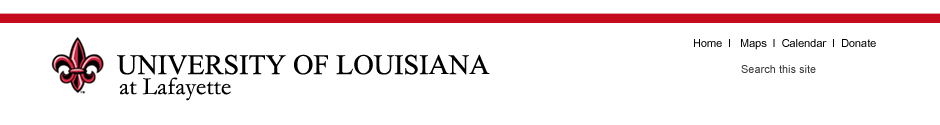
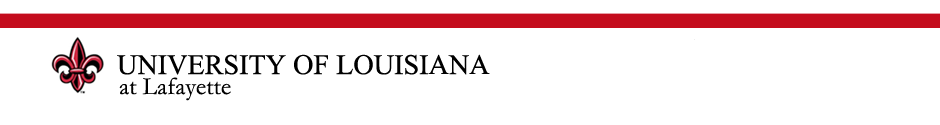
added the sub pages, so that is ready for wireframes to be added

Changed region(s): [[0.0, 0.168, 1.0, 0.24], [0.7404, 0.312, 0.9564, 0.384], [0.7713, 0.528, 0.8947, 0.6]]

diff --git a/about.html b/about.html
@@ -22,6 +22,18 @@
 
     <!--  jQuery http://jquery.com/ -->
     <script src="javascripts/lib/jquery-1.7.1.min.js"></script>
+	
+	
+	
+	
+<link rel="stylesheet" href="nivo-slider.css" type="text/css" media="screen" />
+<script src="http://ajax.googleapis.com/ajax/libs/jquery/1.4.2/jquery.min.js" type="text/javascript"></script>
+<script src="jquery.nivo.slider.pack.js" type="text/javascript"></script>
+
+	
+	
+	
+	
 
     <!-- Bootstrap Javascripts http://twitter.github.com/bootstrap/javascript.html -->
     <script src="javascripts/lib/bootstrap.js"></script>
@@ -37,11 +49,28 @@
 
   <body>
   
+  
+  
   <section id="everything">
    <div class="container">
    <div id="banner">
    <div class="row">
 			<div class="span12">
+			<ul>
+			
+			<li><a href="index.html">Home </a></li>
+			<li><a href="index.html">Maps <a></li>
+			<li><a href="index.html">Calendar </a></li>
+			<li><a href="index.html">Donate </a></li>
+			<li><form id="searchbar" class="navbar-search pull-left">
+				<input type="text" class="search-query" placeholder="Search">
+			</form></li>
+			
+			</ul>
+			
+			
+			
+			
 			
 			</div>
     </div>
@@ -84,13 +113,13 @@
 		
 		
 		<ul>
-			<li><a href="index.html">sub nav</a></li>
-			<li><a href="#">sub nav</a></li>
-			<li><a href="#">sub nav</a></li>
-			<li><a href="#">sub nav</a></li>
-			<li><a href="#">sub nav</a></li>
-			<li><a href="#">sub nav</a></li>
-			<li><a href="#">sub nav</a></li>
+			
+			<li><a href="http://louisiana.edu/AboutUs/Mission.shtml">Mission Statement</a></li>
+			<li><a href="http://www.ull.edu/Advancement/PRNS/media/fastfacts.shtml">Quick Facts</a></li>
+			<li><a href="http://www.louisiana.edu/AboutUs/History/">History</a></li>
+			<li><a href="#">Offices and Administrations</a></li>
+			<li><a href="#">Campus Services</a></li>
+			<li><a href="#">Media</a></li>
 			
 		</ul>
 		
@@ -107,9 +136,19 @@
 				<div id="topper">
 					<div class="row">
 						<div class="span9">
-							Image slider goes here
-							<img width="1000" height="550" src="images/ULL_homepage.jpg" alt="images/ULL_homepage.jpg">
 							
+	
+			<div id="slider" class="nivoSlider">
+					<img src="images/football.jpg" alt="" />
+						
+					<img src="images/ULL_homepage.jpg" alt="" title="This is an example of a caption" />
+					<img src="images/map.jpg" alt="" />
+			</div>
+
+
+
+
+						
 						</div>
 					</div>
 				</div>
@@ -144,18 +183,35 @@
 		</div>
 		
 			
-			<div class="row">
-			<div class="span9">
-			<div id="footer">
-			footer crud
+			
+			
+		</div><!-- end of body content -->
+		<div id="footer">
+		<div class="row">
+			<div class="span10">
+			
+			
+			<ul>
+			
+			<li><a href="index.html">Home</a></li>
+			<li><a href="index.html">Contact Us</a></li>
+			<li>1234 blah blah st.<br />
+			    Lafayette, LA nnnnn</li>
+			<li>Phone: (nnn)nnn-nnnn </li>
+			<li><a href="index.html">Emergency Info</a></li>
+			
+			
+			</ul>
+			</div>
+			<div class="span2">
+			<img src="images/fb.png">
+			<img src="images/twitter.png">
+			</div>
 			 
 			
 		</div>
 			</div>
 			</div>
-			
-		</div><!-- end of body content -->
-		
 	
 		
 		</div>

diff --git a/stylesheets/main.css b/stylesheets/main.css
@@ -12,6 +12,13 @@ padding-right:7px;
 background:#c40c1d;
 }
 
+#searchbar{
+ padding:35px 0px 0px 200px;
+
+
+}
+
+
 #banner_nav li{
 font-size:15px;
 float:left;
@@ -71,7 +78,7 @@ padding: 10px;
 
 #everything{
 background: url('../images/husk.png') ;
-
+height:980px;
 }
 
 ul {
@@ -84,7 +91,7 @@ background-color: #c40c1d;
 -webkit-border-radius: 10px 0px 0px 0px;
 -moz-border-radius: 10px 0px 0px 0px;
 width:200px;
-height:795px;
+height:695px;
 
 }
 
@@ -110,8 +117,20 @@ height:125px;
 background: url('../images/louisiana_banner2.png');
 }
 
+#banner li{
+color:black;
+text-align: right;
+float:left;
+
+width:100px;
+
+}
+
+
+
+
 #maincontent{
-height: 735px ;
+height: 695px ;
 
 -webkit-border-radius: 10px;
 -moz-border-radius: 15px;
@@ -119,11 +138,11 @@ height: 735px ;
 }
 
 #footer {
-
+margin-top:12px;
 clear: both;
-width: 658px;
+width: 940px;
 background-color: #9A987D;
-padding: 20px;
+padding: 10px 0px 0px 0px;
 border-color: #999;
 border-style: solid;
 border-width: 1px 1px 1px 1px;
@@ -137,7 +156,7 @@ height:20px;
 font-weight:bold;
 font-size:12px;
 float:left;
-width:90px;
+width:135px;
 display:block;
 margin-left: 0px;
 margin-bottom:0px;

diff --git a/academics.html b/academics.html
@@ -114,12 +114,12 @@
 		
 		<ul>
 			<li><a href="index.html">sub nav</a></li>
-			<li><a href="#">sub nav</a></li>
-			<li><a href="#">sub nav</a></li>
-			<li><a href="#">sub nav</a></li>
-			<li><a href="#">sub nav</a></li>
-			<li><a href="#">sub nav</a></li>
-			<li><a href="#">sub nav</a></li>
+			<li><a href="#">Academic Calendars</a></li>
+			<li><a href="#">Departments and Programs</a></li>
+			<li><a href="#">Course Catalogue</a></li>
+			<li><a href="#">Honors Program</a></li>
+			<li><a href="#">Student Support</a></li>
+			<li><a href="#">Online/Distance Learning</a></li>
 			
 		</ul>
 		

diff --git a/studentlife.html b/studentlife.html
@@ -114,12 +114,12 @@
 		
 		<ul>
 			<li><a href="index.html">sub nav</a></li>
-			<li><a href="#">sub nav</a></li>
-			<li><a href="#">sub nav</a></li>
-			<li><a href="#">sub nav</a></li>
-			<li><a href="#">sub nav</a></li>
-			<li><a href="#">sub nav</a></li>
-			<li><a href="#">sub nav</a></li>
+			<li><a href="#">Housing</a></li>
+			<li><a href="#">Student Services</a></li>
+			<li><a href="#">Student Organizations</a></li>
+			<li><a href="#">Living in Lafayette/a></li>
+			<li><a href="#">Arts & Culture</a></li>
+			
 			
 		</ul>
 		

diff --git a/admissions.html b/admissions.html
@@ -114,12 +114,12 @@
 		
 		<ul>
 			<li><a href="index.html">sub nav</a></li>
-			<li><a href="#">sub nav</a></li>
-			<li><a href="#">sub nav</a></li>
-			<li><a href="#">sub nav</a></li>
-			<li><a href="#">sub nav</a></li>
-			<li><a href="#">sub nav</a></li>
-			<li><a href="#">sub nav</a></li>
+			<li><a href="#">Freshman</a></li>
+			<li><a href="#">Transfer Students</a></li>
+			<li><a href="#">Graduate Students</a></li>
+			<li><a href="#">Parents</a></li>
+			<li><a href="#">International Students</a></li>
+			
 			
 		</ul>
 		

diff --git a/athletics.html b/athletics.html
@@ -114,12 +114,11 @@
 		
 		<ul>
 			<li><a href="index.html">sub nav</a></li>
-			<li><a href="#">sub nav</a></li>
-			<li><a href="#">sub nav</a></li>
-			<li><a href="#">sub nav</a></li>
-			<li><a href="#">sub nav</a></li>
-			<li><a href="#">sub nav</a></li>
-			<li><a href="#">sub nav</a></li>
+			<li><a href="#">Intercollegiate</a></li>
+			<li><a href="#">Intramural</a></li>
+			<li><a href="#">Rec Clubs</a></li>
+			<li><a href="#">Fan Zone:<br /> Ticketing & Event Calendar</a></li>
+			
 			
 		</ul>
 		

diff --git a/research.html b/research.html
@@ -114,12 +114,11 @@
 		
 		<ul>
 			<li><a href="index.html">sub nav</a></li>
-			<li><a href="#">sub nav</a></li>
-			<li><a href="#">sub nav</a></li>
-			<li><a href="#">sub nav</a></li>
-			<li><a href="#">sub nav</a></li>
-			<li><a href="#">sub nav</a></li>
-			<li><a href="#">sub nav</a></li>
+			<li><a href="#">News and Events</a></li>
+			<li><a href="#">Research Office</a></li>
+			<li><a href="#">Faculty Resources</a></li>
+			<li><a href="#">Student Opportunities</a></li>
+			
 			
 		</ul>
 		

diff --git a/stylesheets/lib/bootstrap.css b/stylesheets/lib/bootstrap.css
@@ -2477,10 +2477,10 @@ button.btn.small, input[type="submit"].btn.small {
   transition: none;
 }
 .navbar-search .search-query :-moz-placeholder {
-  color: #eeeeee;
+  color: black;
 }
 .navbar-search .search-query::-webkit-input-placeholder {
-  color: #eeeeee;
+  color: black;
 }
 .navbar-search .search-query:hover {
   color: #ffffff;
